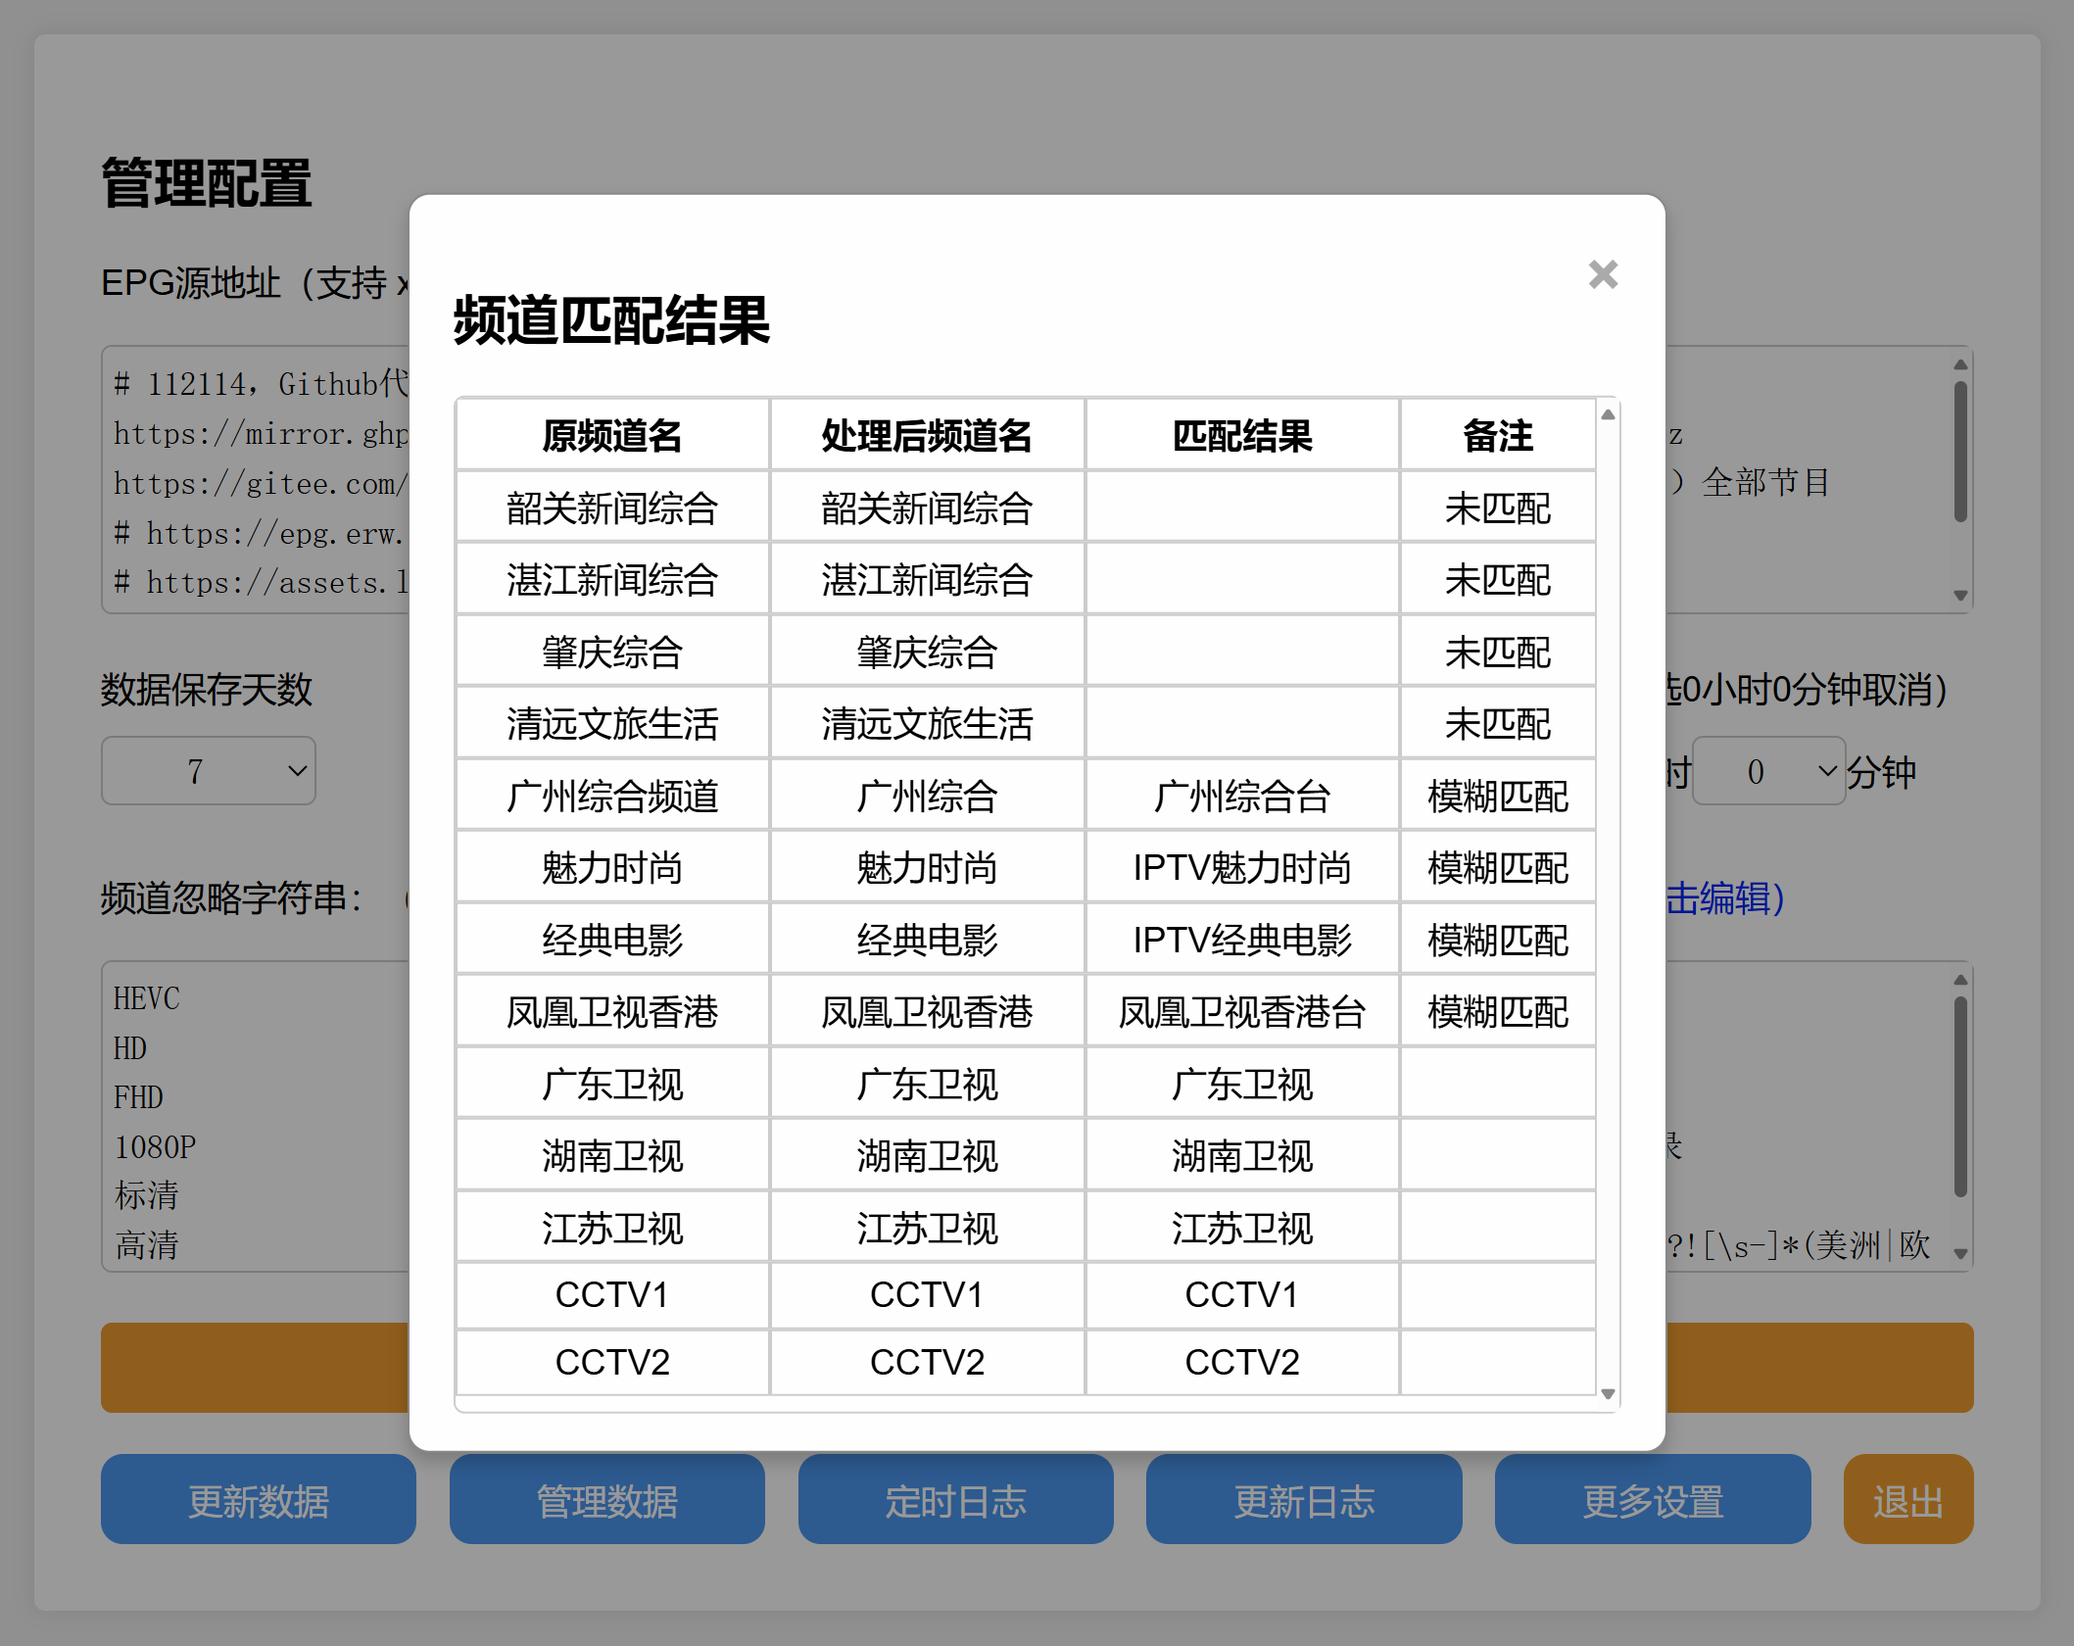
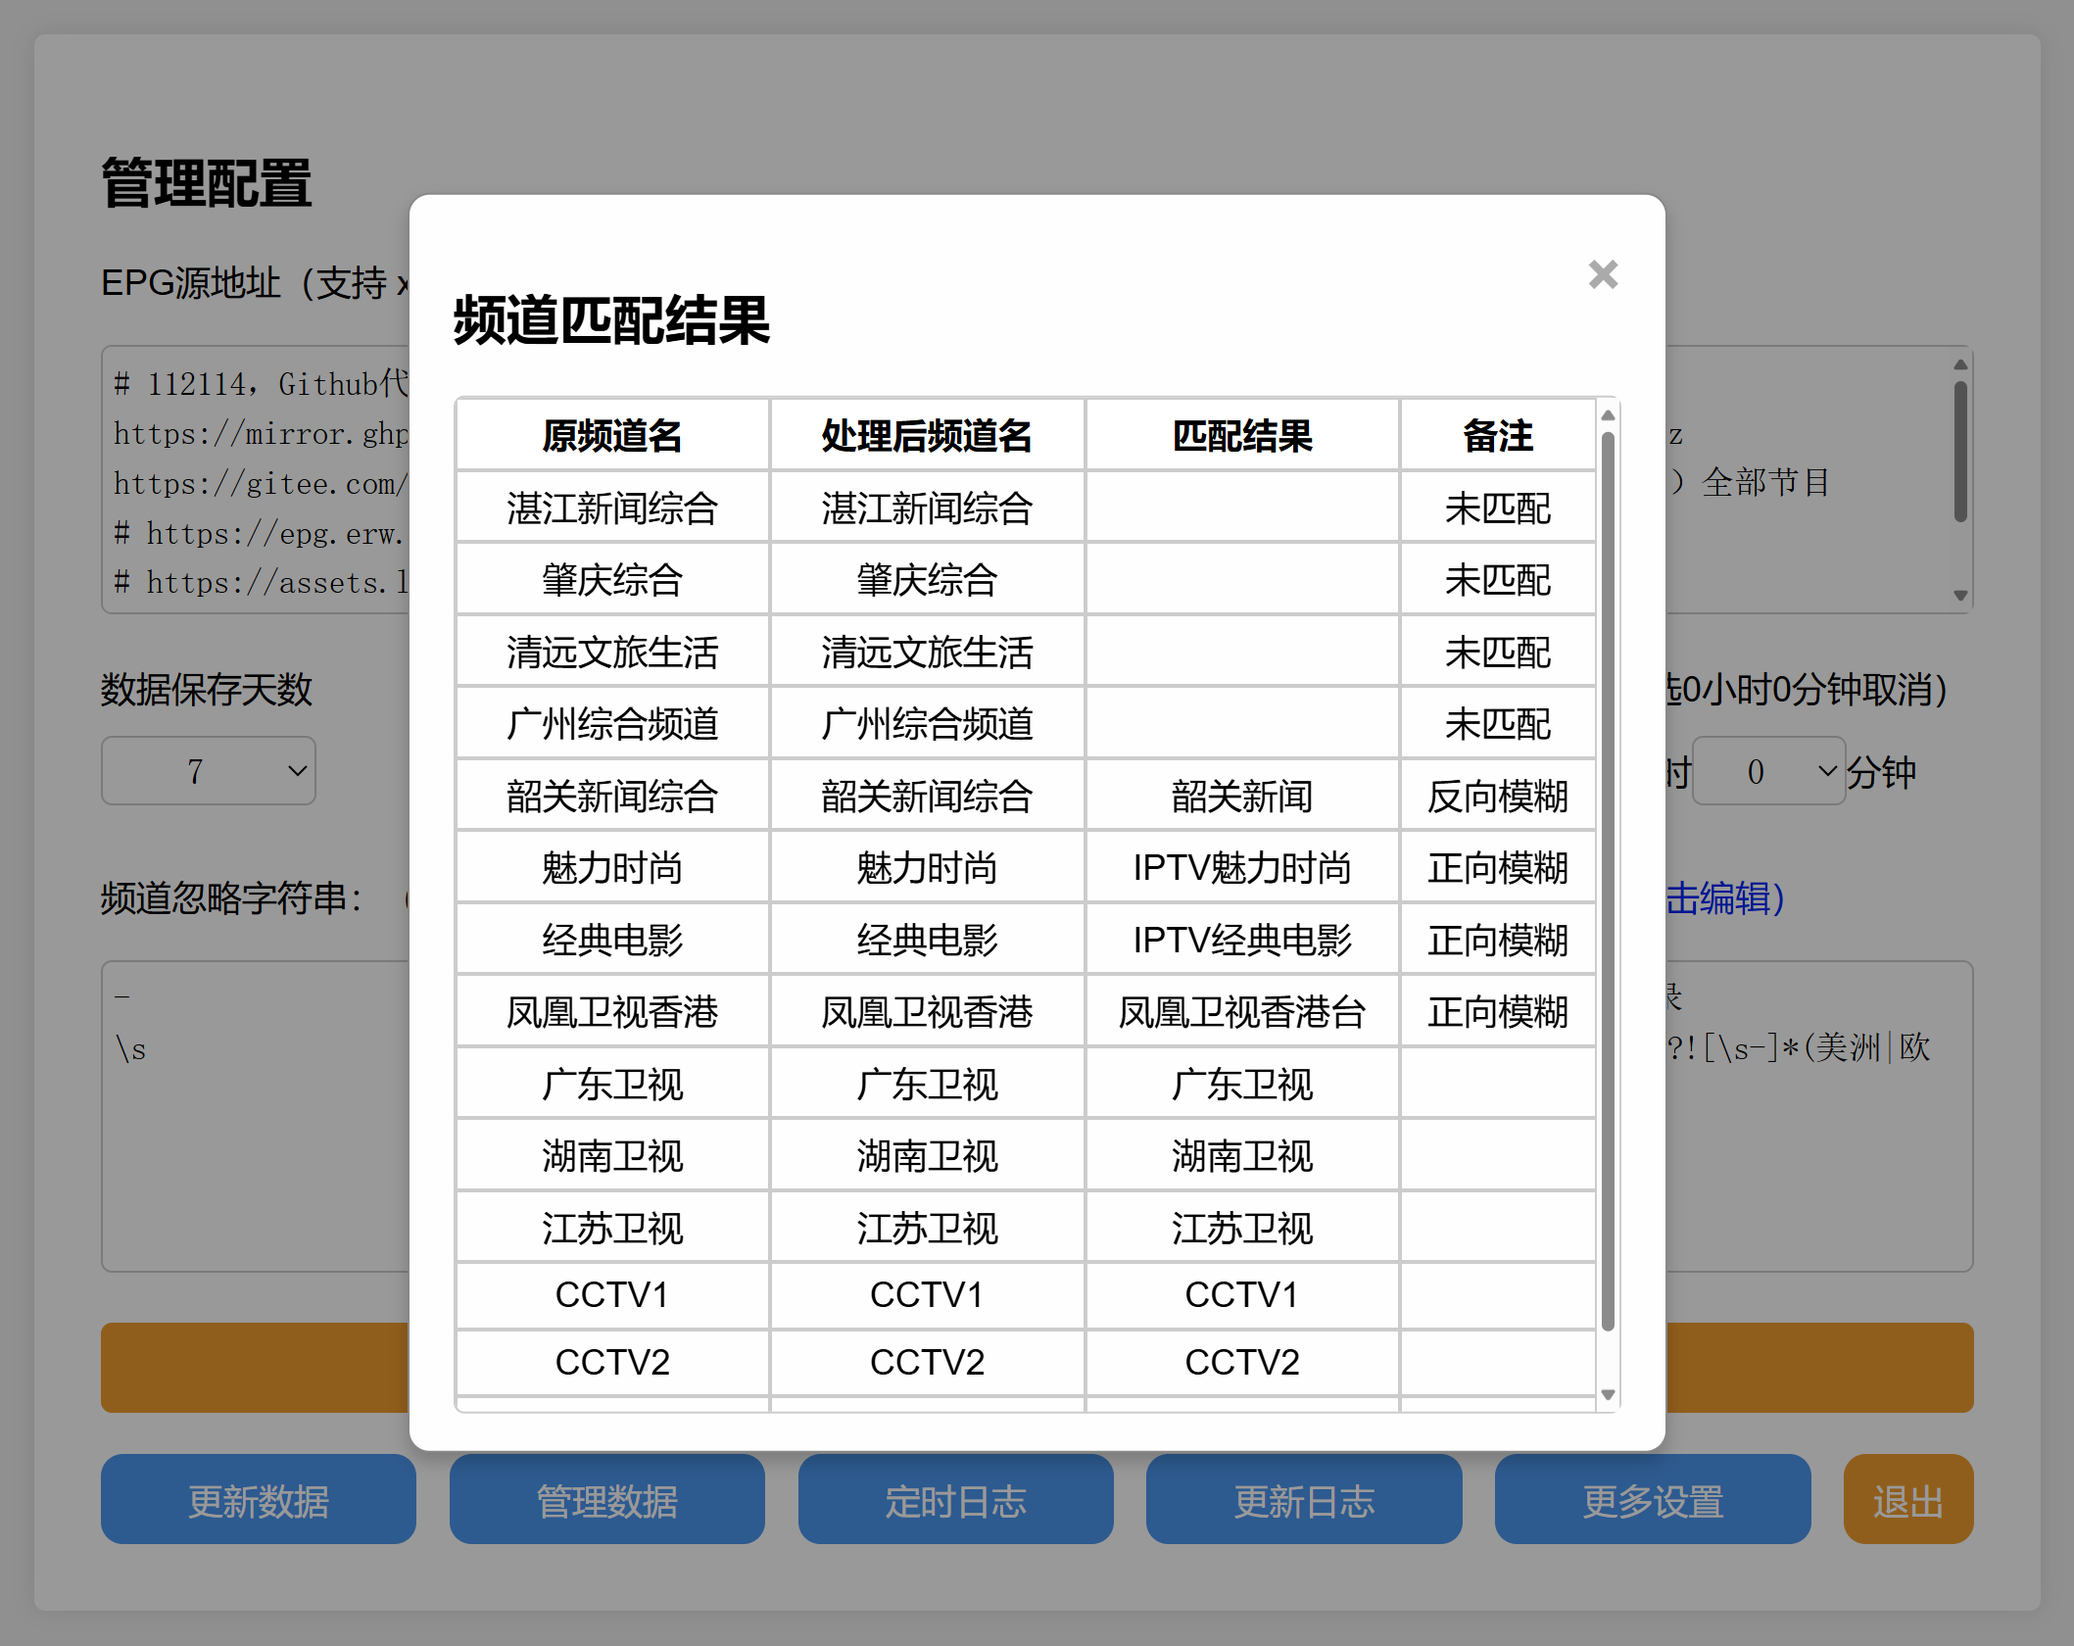
新增反向模糊匹配，优化频道匹配顺序
1. 新增：反向模糊匹配（如 `湖南茶频道` 能匹配 `茶频道`）
   > 可能出现错误匹配：如数据库中只有 `CGTN` 跟 `CGTN西语` ，请求 `CGTN西班牙语` 会返回 `CGTN` ，需自行添加频道映射
2. 优化：频道匹配顺序
   > 优先精准匹配，其次正向模糊匹配（`超级体育 => NewTV超级体育`），最后反向模糊匹配（`湖南茶频道 => 茶频道`）
3. 优化：去掉绝大部分 `频道忽略字符串` 跟 `频道映射`

diff --git a/epg/css/manage.css b/epg/css/manage.css
@@ -248,15 +248,16 @@ input[type="text"] {
 #channelMatchTable td:nth-child(4) {
     width: 15%; /* 第四列宽度 */
 }
-.modal-content select[id="gen_xml"],
-select[id="include_future_only"] {
+.modal-content select[id="include_future_only"] {
     width: 155px;
-    text-align: center;
     margin-right: 0px;
 }
 .modal-content select[id="gen_xml"] {
     width: 100px;
     margin-right: 50px;
+}
+.modal-content select[id="ret_default"] {
+    width: 72px;
 }
 /* 工具提示容器 */
 .tooltip {

diff --git a/epg/manage.php b/epg/manage.php
@@ -281,20 +281,49 @@ try {
             $channels = $db->query("SELECT channel FROM gen_list")->fetchAll(PDO::FETCH_COLUMN);
             if (empty($channels)) return ['ori_channels' => [], 'clean_channels' => [], 'match' => []];
 
-            // 清理频道名
+            // 清理频道名并获取 EPG 数据
             $cleanChannels = explode("\n", t2s(implode("\n", array_map('cleanChannelName', $channels))));
-
-            // 获取所有 EPG 数据
             $epgData = $db->query("SELECT channel FROM epg_data")->fetchAll(PDO::FETCH_COLUMN);
+
+            // 建立干净频道名和原始频道的映射
+            $channelMap = array_combine($cleanChannels, $channels);
+
             $matches = [];
 
-            foreach ($cleanChannels as $index => $cleanChannel) {
-                $originalChannel = $channels[$index];
-                $cleanChannel = $cleanChannels[$index];
-                $inArray = in_array($cleanChannel, $epgData);
-                $fuzzyMatch = array_values(array_filter($epgData, fn($epgChannel) => stripos($epgChannel, $cleanChannel) !== false));
-                $matchType = $inArray && $cleanChannel === $originalChannel ? '精确匹配' : ($fuzzyMatch ? '模糊匹配' : '未匹配');
-                $matches[$cleanChannel][] = ['ori_channel' => $originalChannel, 'clean_channel' => $cleanChannel, 'match' => $inArray? $cleanChannel : $fuzzyMatch[0] ?? null, 'type' => $matchType];
+            foreach ($cleanChannels as $cleanChannel) {
+                $originalChannel = $channelMap[$cleanChannel];
+                $matchResult = null;
+                $matchType = '未匹配';
+
+                // 精确匹配
+                if (in_array($cleanChannel, $epgData) && $cleanChannel === $originalChannel) {
+                    $matchResult = $cleanChannel;
+                    $matchType = '精确匹配';
+                } else {
+                    // 正向模糊匹配
+                    foreach ($epgData as $epgChannel) {
+                        if (stripos($epgChannel, $cleanChannel) !== false) {
+                            $matchResult = $epgChannel;
+                            $matchType = '正向模糊';
+                            break;
+                        }
+                    }
+
+                    // 反向模糊匹配
+                    if (!$matchResult) {
+                        foreach ($epgData as $epgChannel) {
+                            if (stripos($cleanChannel, $epgChannel) !== false) {
+                                if (!$matchResult || strlen($epgChannel) > strlen($matchResult)) {
+                                    $matchResult = $epgChannel;
+                                    $matchType = '反向模糊';
+                }}}}}
+
+                $matches[$cleanChannel] = [
+                    'ori_channel' => $originalChannel,
+                    'clean_channel' => $cleanChannel,
+                    'match' => $matchResult,
+                    'type' => $matchType
+                ];
             }
 
             // 构建返回的响应数据
@@ -498,7 +527,7 @@ if ($_SERVER['REQUEST_METHOD'] == 'GET' && isset($_GET['url'])) {
                 <thead style="position: sticky; top: 0; background-color: white;">
                     <tr>
                         <th>数据库频道名</th>
-                        <th>自定1, 自定2, ...</th>
+                        <th>自定频道名</th>
                     </tr>
                 </thead>
                 <tbody>
@@ -551,7 +580,7 @@ if ($_SERVER['REQUEST_METHOD'] == 'GET' && isset($_GET['url'])) {
         </select>
         <br><br>
         <label for="ret_default">默认返回“精彩节目”：</label>
-        <select id="ret_default" name="ret_default" style="width: 72px"; required>
+        <select id="ret_default" name="ret_default" required>
             <option value="1" <?php if (!isset($Config['ret_default']) || $Config['ret_default'] == 1) echo 'selected'; ?>>是</option>
             <option value="0" <?php if (isset($Config['ret_default']) && $Config['ret_default'] == 0) echo 'selected'; ?>>否</option>
         </select>
@@ -739,7 +768,7 @@ if ($_SERVER['REQUEST_METHOD'] == 'GET' && isset($_GET['url'])) {
         logData.forEach(log => {
             var row = document.createElement("tr");
             row.innerHTML = `
-                <td>${new Date(log.timestamp).toLocaleString()}</td>
+                <td>${new Date(log.timestamp).toLocaleString('zh-CN', { year: 'numeric', month: '2-digit', day: '2-digit', hour: '2-digit', minute: '2-digit', second: '2-digit', hour12: false })}</td>
                 <td>${log.log_message}</td>
             `;
             logTableBody.appendChild(row);
@@ -750,7 +779,7 @@ if ($_SERVER['REQUEST_METHOD'] == 'GET' && isset($_GET['url'])) {
 
     function updateCronLogContent(logData) {
         var logContent = document.getElementById("cronLogContent");
-        logContent.value = logData.map(log => `[${new Date(log.timestamp).toLocaleDateString('zh-CN', { month: '2-digit', day: '2-digit' })} ${new Date(log.timestamp).toLocaleTimeString()}] ${log.log_message}`).join('\n');
+        logContent.value = logData.map(log => `[${new Date(log.timestamp).toLocaleString('zh-CN', {month: '2-digit', day: '2-digit', hour: '2-digit', minute: '2-digit', second: '2-digit', hour12: false })}] ${log.log_message}`).join('\n');
         logContent.scrollTop = logContent.scrollHeight;
     }
 
@@ -766,7 +795,7 @@ if ($_SERVER['REQUEST_METHOD'] == 'GET' && isset($_GET['url'])) {
         const channelMatchTableBody = document.querySelector("#channelMatchTable tbody");
         channelMatchTableBody.innerHTML = '';
 
-        const typeOrder = { '未匹配': 1, '模糊匹配': 2, '精确匹配': 3 };
+        const typeOrder = { '未匹配': 1, '反向模糊': 2, '正向模糊': 3, '精确匹配': 4 };
 
         // 处理并排序匹配数据
         const sortedMatches = Object.values(channelMatchdata)

diff --git a/epg/update.php b/epg/update.php
@@ -95,11 +95,9 @@ function saveHashesToJson($json_file, $hashes) {
 }
 
 // 获取限定频道列表及映射关系
-function getGenList($db) {    
-    global $Config;
-    
-    // 如果 $Config['gen_list_enable'] 不存在、为 0 或查询结果为空，直接返回空集
-    if (empty($Config['gen_list_enable']) || empty($channels = $db->query("SELECT channel FROM gen_list")->fetchAll(PDO::FETCH_COLUMN))) {
+function getGenList($db) {
+    $channels = $db->query("SELECT channel FROM gen_list")->fetchAll(PDO::FETCH_COLUMN);
+    if (empty($channels)) {
         return [
             'gen_list_mapping' => [],
             'gen_list' => []
@@ -116,11 +114,34 @@ function getGenList($db) {
         $cleanedChannel = cleanChannelName($simplifiedChannel);
         $cleanedChannels[] = $cleanedChannel;
         
+        // 优先精准匹配，其次正向模糊匹配，最后反向模糊匹配
+        $stmt = $db->prepare("
+            SELECT DISTINCT channel
+            FROM epg_data 
+            WHERE 
+                channel = :channel COLLATE NOCASE 
+                OR channel LIKE :like_channel COLLATE NOCASE
+                OR :channel LIKE '%' || channel || '%' COLLATE NOCASE
+            ORDER BY 
+                CASE 
+                    WHEN channel = :channel COLLATE NOCASE THEN 1 
+                    WHEN channel LIKE :like_channel COLLATE NOCASE THEN 2 
+                    ELSE 3 
+                END, 
+                LENGTH(channel) DESC
+            LIMIT 1
+        ");
+        $stmt->execute([
+            ':channel' => $cleanedChannel, 
+            ':like_channel' => $cleanedChannel . '%'
+        ]);
+        $dbChannel = $stmt->fetchColumn() ?: $cleanedChannel;
+        
         // 如果该清理后的频道名称已经存在于映射中，则将原始频道名称追加到数组中
-        if (!isset($gen_list_mapping[$cleanedChannel])) {
-            $gen_list_mapping[$cleanedChannel] = [];
+        if (!isset($gen_list_mapping[$dbChannel])) {
+            $gen_list_mapping[$dbChannel] = [];
         }
-        $gen_list_mapping[$cleanedChannel][] = $channels[$index];
+        $gen_list_mapping[$dbChannel][] = $channels[$index];
     }
     
     $gen_list = array_unique($cleanedChannels);
@@ -133,14 +154,13 @@ function getGenList($db) {
 
 // 从 epg_data 表生成 XML 数据并逐个频道写入 t.xml 文件
 function generateXmlFromEpgData($db, $include_future_only, $gen_list_mapping) {
+    global $Config;
     $currentDate = date('Y-m-d'); // 获取当前日期
     $dateCondition = $include_future_only ? "WHERE date >= '$currentDate'" : '';
 
     // 合并查询
     $query = "SELECT date, channel, epg_diyp FROM epg_data $dateCondition ORDER BY channel ASC, date ASC";
     $stmt = $db->query($query);
-
-    $mappingIsEmpty = empty($gen_list_mapping); // 检查 $gen_list_mapping 是否为空
 
     // 创建 XMLWriter 实例
     $xmlWriter = new XMLWriter();
@@ -157,16 +177,19 @@ function generateXmlFromEpgData($db, $include_future_only, $gen_list_mapping) {
 
     while ($program = $stmt->fetch(PDO::FETCH_ASSOC)) {
         $originalChannel = $program['channel'];
-        if ($mappingIsEmpty || isset($gen_list_mapping[$originalChannel])) {
-            $channelsToProcess = $mappingIsEmpty ? [$originalChannel] : $gen_list_mapping[$originalChannel];
+    
+        // 确定要处理的频道列表
+        $channelsToProcess = $Config['gen_list_enable']
+            ? ($gen_list_mapping[$originalChannel] ?? [])
+            : array_unique(array_merge([$originalChannel], $gen_list_mapping[$originalChannel] ?? []));
+    
+        // 如果不需要生成列表或映射为空或存在映射，则处理频道数据
+        if (empty($Config['gen_list_enable']) || empty($gen_list_mapping) || isset($gen_list_mapping[$originalChannel])) {
             foreach ($channelsToProcess as $mappedChannel) {
-                if (!isset($channelData[$mappedChannel])) {
-                    $channelData[$mappedChannel] = [];
-                }
                 $channelData[$mappedChannel][] = $program;
             }
         }
-    }
+    }    
 
     // 逐个频道处理
     foreach ($channelData as $mappedChannel => $programs) {
@@ -236,6 +259,7 @@ function formatTime($date, $time) {
 
 // 处理 XML 数据并逐步存入数据库
 function processXmlData($xml_data, $date, $db, $gen_list) {
+    global $Config;
     global $processedRecords;
 
     $reader = new XMLReader();
@@ -259,8 +283,8 @@ function processXmlData($xml_data, $date, $db, $gen_list) {
     $channelNamesMap = [];
     foreach ($cleanChannelNames as $channelId => $channelName) {
         $channelNameSimplified = array_shift($simplifiedChannelNames);
-        // 当 gen_list 为空时，插入所有数据
-        if (empty($gen_list)) {
+        // 当 gen_list_enable 为 0 或 gen_list 为空，插入所有数据
+        if (empty($Config['gen_list_enable']) || empty($gen_list)) {
             $channelNamesMap[$channelId] = $channelNameSimplified;
             continue;
         }

diff --git a/epg/index.php b/epg/index.php
@@ -53,36 +53,42 @@ function getFormatTime($time) {
 
 // 从数据库读取 diyp、lovetv 数据
 function readEPGData($date, $channel, $db, $type) {
-    // 精确匹配优先
+    // 优先精准匹配，其次正向模糊匹配，最后反向模糊匹配
     $stmt = $db->prepare("
-        SELECT epg_diyp 
+        SELECT DISTINCT epg_diyp
         FROM epg_data 
         WHERE date = :date 
         AND (
             channel = :channel COLLATE NOCASE 
             OR channel LIKE :like_channel COLLATE NOCASE
+            OR :channel LIKE '%' || channel || '%' COLLATE NOCASE
         )
         ORDER BY 
-            CASE WHEN channel = :channel THEN 1 ELSE 2 END
+            CASE 
+                WHEN channel = :channel COLLATE NOCASE THEN 1 
+                WHEN channel LIKE :like_channel COLLATE NOCASE THEN 2 
+                ELSE 3 
+            END, 
+            LENGTH(channel) DESC
         LIMIT 1
     ");
     $stmt->execute([
         ':date' => $date, 
         ':channel' => $channel, 
-        ':like_channel' => '%' . $channel . '%'
+        ':like_channel' => $channel . '%'
     ]);
-    $row = $stmt->fetch(PDO::FETCH_ASSOC);
+    $row = $stmt->fetchColumn();
     
     if (!$row) {
         return false;
     }
 
     if ($type === 'diyp') {
-        return $row['epg_diyp'];
+        return $row;
     }
 
     if ($type === 'lovetv') {
-        $diyp_data = json_decode($row['epg_diyp'], true);
+        $diyp_data = json_decode($row, true);
         $program = array_map(function($epg) {
             $start_time = strtotime($epg['start']);
             $end_time = strtotime($epg['end']);
